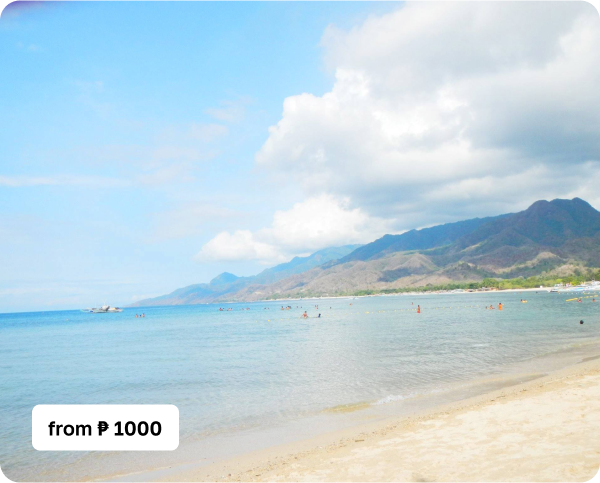
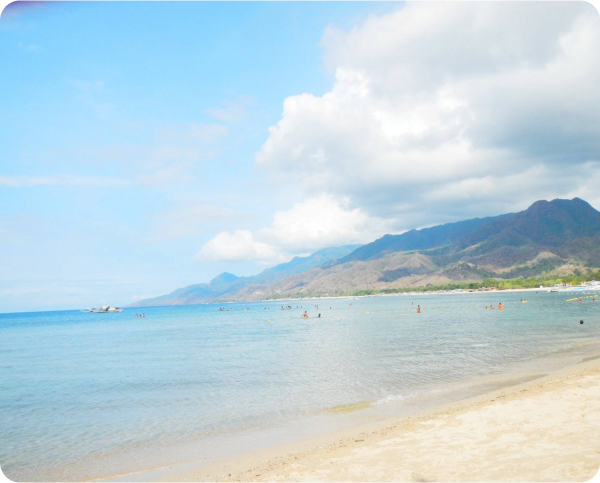
replace images; implement dynamic details from database; loop through each destination

Changed region(s): [[0.03, 0.8385, 0.3, 0.9317]]

diff --git a/sanjuan.php b/sanjuan.php
@@ -16,26 +16,25 @@ if ($conn->connect_error) {
 }
 
 // Fetch destinations for San Juan
-$sql = "SELECT * FROM destinations WHERE town_name = 'San Juan'";
+$sql = "SELECT * FROM destinations WHERE town = 'San Juan'";
 $result = $conn->query($sql);
 
 ?>
 
 <!DOCTYPE html>
-<html>
-    <head>
+<html lang="en">
+<head>
     <meta charset="UTF-8">
-    <meta http-equiv="X-UA-Compatible" content="IE=egde:">
+    <meta http-equiv="X-UA-Compatible" content="IE=edge">
     <meta name="viewport" content="width=device-width, initial-scale=1.0">
-    <title> Dashboard </title>
+    <title>Dashboard</title>
     <link rel="stylesheet" href="css/destination.css">
     <link rel="icon" href="icons/webicon.png">
     <link rel="preconnect" href="https://fonts.googleapis.com">
     <link rel="preconnect" href="https://fonts.gstatic.com" crossorigin>
     <link href="https://fonts.googleapis.com/css2?family=Bebas+Neue&family=Poppins:ital,wght@0,100;0,200;0,300;0,400;0,500;0,600;0,700;0,800;0,900;1,100;1,200;1,300;1,400;1,500;1,600;1,700;1,800;1,900&family=Reenie+Beanie&display=swap" rel="stylesheet">
-    <script src="javascript/index.js"> </script>
-    </head>
-
+    <script src="javascript/index.js"></script>
+</head>
 <body>  
     <nav class="navbar">
         <div class="max-width">
@@ -45,269 +44,89 @@ $result = $conn->query($sql);
                 <li><a href="search.php" class="menu-btn">Search</a></li>
             </ul>
 
-            <div class="logo"><a href="dashboard.php"><img src="icons/logo.png"></a>
-            </div>
+            <div class="logo"><a href="dashboard.php"><img src="icons/logo.png"></a></div>
 
             <div class="itinerary">
-            <div class="itinerary-btn">Itinerary</div>
-            <div class="itinerary-btn-box"><a href="#itineraries"><img class="loc-ico" src="icons/itineraries-location-icon.png">0</a></div>
+                <div class="itinerary-btn">Itinerary</div>
+                <div class="itinerary-btn-box"><a href="#itineraries"><img class="loc-ico" src="icons/itineraries-location-icon.png">0</a></div>
             </div>
         </div>
     </nav>
 
-<!-- San Juan Destinations -->
-<div class="sanjuan-img">
-    <img src="icons/search-sanjuan.png">
-</div>
-
-<!-- Wrapper for all destination containers -->
-<div class="destination-wrapper">
-    <!-- Destination 1 -->
-    <div class="destination-container">
-        <div class="destination-img">
-            <img src="icons/sanjuan-d1.png">
-            <div class="price-overlay">
-                <p class="from-color">from</p> <h2>₱ 2500</h2>
-            </div>
-        </div>
-
-        <div class="details">
-            <h2 class="name">
-                <a href="https://camplaiyabeach.com" target="_blank">Camp Laiya Beach Farm Resort</a>
-            </h2>
-            <p class="direction">Drop by the Municipal Tourism Reception/Checkpoint
-                (drive-in toll -- along San Juan-Laiya Rd.) Brgy. Buhaynasapa, San Juan, Batangas</p>
-            
-            <ul class="pricelist">
-                <li>Daytour Price: ₱1000 per head</li>
-                <li>Overnight Price: ₱1250 per head</li>
-                <li>Environmental Fee: ₱20</li>
-                <li>Other Fees: ₱150</li>
-            </ul>
-
-            <div class="dropdown-container">
-                <!-- Dropdown for number of people -->
-                <select class="people" name="people">
-                    <option value="" disabled selected>Number of People</option>
-                </select>
-                <!-- Dropdown for days to stay with onchange event -->
-                <select class="days" name="days" onchange="updateDaytourText()">
-                    <option value="" disabled selected>Days to Stay</option>
-                </select>
-                <!-- Label for daytour -->
-                <div>
-                    <input type="text" class="daytour" name="daytour" placeholder="Daytour" disabled>
-                </div>
-            </div>
-            
-            <button class="add-itinerary-btn">Add to Itinerary</button>
-
-        </div>
+    <!-- San Juan Destinations -->
+    <div class="sanjuan-img">
+        <img src="icons/search-sanjuan.png">
     </div>
 
-    <!-- Destination 2 -->
-    <div class="destination-container">
-        <div class="destination-img">
-            <img src="icons/sanjuan-d2.png">
-        </div>
-
-        <div class="details">
-            <h2 class="name">
-                <a href="https://www.facebook.com/@sigayanbay" target="_blank">Sigayan Bay Beach Resort</a>
-            </h2>
-            <p class="direction">Drop by the Municipal Tourism Reception/Checkpoint
-                (drive-in toll -- along San Juan-Laiya Rd.) Brgy. Buhaynasapa, San Juan, Batangas</p>
-            
-            <ul class="pricelist">
-                <li>Daytour Price: ₱1000 per head</li>
-                <li>Overnight Price: ₱2000 per head</li>
-                <li>Environmental Fee: ₱150</li>
-                <li>Other Fees: ₱200</li>
-            </ul>
-
-            <div class="dropdown-container">
-                <!-- Dropdown for number of people -->
-                <select class="people" name="people">
-                    <option value="" disabled selected>Number of People</option>
-                </select>
-                <!-- Dropdown for days to stay with onchange event -->
-                <select class="days" name="days" onchange="updateDaytourText()">
-                    <option value="" disabled selected>Days to Stay</option>
-                </select>
-                <!-- Label for daytour -->
-                <div>
-                    <input type="text" class="daytour" name="daytour" placeholder="Daytour" disabled>
+    <!-- Wrapper for all destination containers -->
+    <div class="destination-wrapper">
+        <?php
+        // Check if there are destinations
+        if ($result->num_rows > 0) {
+            // Loop through each destination
+            while ($row = $result->fetch_assoc()) {
+                $id = $row['id'];
+                $name = $row['name'];
+                $daytour_price = $row['daytour_price'];
+                $overnight_price = $row['overnight_price'];
+                $environmental_fee = $row['environmental_fee'];
+                $other_fees = $row['other_fees'];
+                $total_estimated_cost = $row['total_estimated_cost'];
+                $image = "icons/sanjuan-d" . $id . ".png";
+        ?>
+        
+        <div class="destination-container">
+            <div class="destination-img">
+                <img src="<?php echo $image; ?>" alt="<?php echo $name; ?>">
+                <div class="price-overlay">
+                    <p class="from-color">from</p>
+                    <h2>₱ <?php echo $total_estimated_cost; ?></h2>
                 </div>
             </div>
-            
-            <button class="add-itinerary-btn">Add to Itinerary</button>
 
-        </div>
-    </div>
+            <div class="details">
+                <h2 class="name">
+                    <a href="https://camplaiyabeach.com" target="_blank"><?php echo $name; ?></a>
+                </h2>
+                <p class="direction">Drop by the Municipal Tourism Reception/Checkpoint (drive-in toll -- along San Juan-Laiya Rd.) Brgy. Buhaynasapa, San Juan, Batangas</p>
+                
+                <ul class="pricelist">
+                    <li>Daytour Price: ₱ <?php echo number_format($daytour_price, 2); ?> per two pax</li>
+                    <li>Overnight Price: ₱ <?php echo number_format($overnight_price, 2); ?> per two pax</li>
+                    <li>Environmental Fee: ₱ <?php echo number_format($environmental_fee, 2); ?></li>
+                    <li>Other Fees: ₱ <?php echo number_format($other_fees, 2); ?></li>
+                </ul>
 
-    <!-- Destination 3 -->
-    <div class="destination-container">
-        <div class="destination-img">
-            <img src="icons/sanjuan-d3.png">
-        </div>
-
-        <div class="details">
-            <h2 class="name">
-                <a href="https://acuaverderesort.com.ph" target="_blank">Acuaverde Beach Resort and Hotel</a>
-            </h2>
-            <p class="direction">Drop by the Municipal Tourism Reception/Checkpoint
-                (drive-in toll -- along San Juan-Laiya Rd.) Brgy. Buhaynasapa, San Juan, Batangas</p>
-            
-            <ul class="pricelist">
-                <li>Daytour Price: ₱1850 per head</li>
-                <li>Overnight Price: ₱3000 per head</li>
-                <li>Environmental Fee: N/A</li>
-                <li>Other Fees: N/A</li>
-            </ul>
-
-            <div class="dropdown-container">
-                <!-- Dropdown for number of people -->
-                <select class="people" name="people">
-                    <option value="" disabled selected>Number of People</option>
-                </select>
-                <!-- Dropdown for days to stay with onchange event -->
-                <select class="days" name="days" onchange="updateDaytourText()">
-                    <option value="" disabled selected>Days to Stay</option>
-                </select>
-                <!-- Label for daytour -->
-                <div>
-                    <input type="text" class="daytour" name="daytour" placeholder="Daytour" disabled>
+                <div class="dropdown-container">
+                    <!-- Dropdown for number of people -->
+                    <select class="people" name="people">
+                        <option value="" disabled selected>Number of People</option>
+                    </select>
+                    <!-- Dropdown for days to stay with onchange event -->
+                    <select class="days" name="days" onchange="updateDaytourText()">
+                        <option value="" disabled selected>Days to Stay</option>
+                    </select>
+                    <!-- Label for daytour -->
+                    <div>
+                        <input type="text" class="daytour" name="daytour" placeholder="Daytour" disabled>
+                    </div>
                 </div>
+                
+                <button class="add-itinerary-btn">Add to Itinerary</button>
             </div>
-            
-            <button class="add-itinerary-btn">Add to Itinerary</button>
-
         </div>
+        
+        <?php
+            }
+        } else {
+            echo "<p>No destinations found.</p>";
+        }
+        ?>
     </div>
-
-    <!-- Destination 4 -->
-    <div class="destination-container">
-        <div class="destination-img">
-            <img src="icons/sanjuan-d4.png">
-        </div>
-
-        <div class="details">
-            <h2 class="name">
-                <a href="https://acuaticoresort.com.ph" target="_blank">Acuatico Beach Resort and Hotel</a>
-            </h2>
-            <p class="direction">Drop by the Municipal Tourism Reception/Checkpoint
-                (drive-in toll -- along San Juan-Laiya Rd.) Brgy. Buhaynasapa, San Juan, Batangas</p>
-            
-            <ul class="pricelist">
-                <li>Daytour Price: ₱1500 per head</li>
-                <li>Overnight Price: ₱3850 per head</li>
-                <li>Environmental Fee: N/A</li>
-                <li>Other Fees: N/A</li>
-            </ul>
-
-            <div class="dropdown-container">
-                <!-- Dropdown for number of people -->
-                <select class="people" name="people">
-                    <option value="" disabled selected>Number of People</option>
-                </select>
-                <!-- Dropdown for days to stay with onchange event -->
-                <select class="days" name="days" onchange="updateDaytourText()">
-                    <option value="" disabled selected>Days to Stay</option>
-                </select>
-                <!-- Label for daytour -->
-                <div>
-                    <input type="text" class="daytour" name="daytour" placeholder="Daytour" disabled>
-                </div>
-            </div>
-            
-            <button class="add-itinerary-btn">Add to Itinerary</button>
-
-        </div>
-    </div>
-
-    <!-- Destination 5 -->
-    <div class="destination-container">
-        <div class="destination-img">
-            <img src="icons/sanjuan-d5.png">
-        </div>
-
-        <div class="details">
-            <h2 class="name">
-                <a href="https://www.facebook.com/LaiyaAdventurePark" target="_blank">Laiya Adventure Park<a>
-            </h2>
-            <p class="direction">Drop by the Municipal Tourism Reception/Checkpoint
-                (drive-in toll -- along San Juan-Laiya Rd.) Brgy. Buhaynasapa, San Juan, Batangas</p>
-            
-            <ul class="pricelist">
-                <li>Daytour Price: ₱50 per head</li>
-                <li>Overnight Price: N/A</li>
-                <li>Environmental Fee: ₱50</li>
-                <li>Other Fees: ₱50</li>
-            </ul>
-
-            <div class="dropdown-container">
-                <!-- Dropdown for number of people -->
-                <select class="people" name="people">
-                    <option value="" disabled selected>Number of People</option>
-                </select>
-                <!-- Dropdown for days to stay with onchange event -->
-                <select class="days" name="days" onchange="updateDaytourText()">
-                    <option value="" disabled selected>Days to Stay</option>
-                </select>
-                <!-- Label for daytour -->
-                <div>
-                    <input type="text" class="daytour" name="daytour" placeholder="Daytour" disabled>
-                </div>
-            </div>
-            
-            <button class="add-itinerary-btn">Add to Itinerary</button>
-
-        </div>
-    </div>
-
-    <!-- Destination 6 -->
-    <div class="destination-container">
-        <div class="destination-img">
-            <img src="icons/sanjuan-d6.png">
-        </div>
-
-        <div class="details">
-            <h2 class="name">San Juan Nepomuceno Parish Church</h2>
-            <p class="direction">Drop by the Municipal Tourism Reception/Checkpoint
-                (drive-in toll -- along San Juan-Laiya Rd.) Brgy. Buhaynasapa, San Juan, Batangas</p>
-            
-            <ul class="pricelist">
-                <li>Daytour Price: Free</li>
-                <li>Overnight Price: N/A</li>
-                <li>Environmental Fee: N/A</li>
-                <li>Other Fees: N/A</li>
-            </ul>
-
-            <div class="dropdown-container">
-                <!-- Dropdown for number of people -->
-                <select class="people" name="people">
-                    <option value="" disabled selected>Number of People</option>
-                </select>
-                <!-- Dropdown for days to stay with onchange event -->
-                <select class="days" name="days" onchange="updateDaytourText()">
-                    <option value="" disabled selected>Days to Stay</option>
-                </select>
-                <!-- Label for daytour -->
-                <div>
-                    <input type="text" class="daytour" name="daytour" placeholder="Daytour" disabled>
-                </div>
-            </div>
-            
-            <button class="add-itinerary-btn">Add to Itinerary</button>
-
-        </div>
-    </div>
-</div>
 
 <script>
 // Function to generate options for dropdowns with 1 to 100 options
 function generateOptionsForAll() {
-    // Select all dropdowns with class 'people' and 'days'
     document.querySelectorAll('.people, .days').forEach((select) => {
         for (let i = 1; i <= 100; i++) {
             const option = document.createElement('option');
@@ -318,13 +137,11 @@ function generateOptionsForAll() {
     });
 }
 
-// Call the function to populate options for all dropdowns
 generateOptionsForAll();
 
-// Update daytour text based on selected days for each destination
+// Update daytour or overnight text based on selected days for each destination
 document.querySelectorAll('.days').forEach((daysSelect, index) => {
     daysSelect.addEventListener('change', function () {
-        // Get the corresponding daytour input for the same destination container
         const daytourInput = document.querySelectorAll('.daytour')[index];
         const daysSelected = parseInt(daysSelect.value, 10);
 
